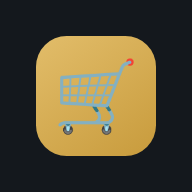
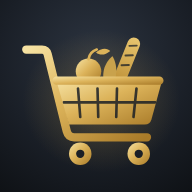
Courses devient Caddie : nouveau nom et nouvelle icône
Claude-Session: https://claude.ai/code/session_01McdgBFhzzAzWYgEfaMgSGS

diff --git a/courses/index.html b/courses/index.html
@@ -3,14 +3,14 @@
 <head>
 <meta charset="UTF-8">
 <meta name="viewport" content="width=device-width, initial-scale=1, viewport-fit=cover">
-<title>Courses</title>
+<title>Caddie</title>
 <meta name="claude:viewport-fit-sides" content="cover">
 <meta name="color-scheme" content="dark">
 <meta name="theme-color" content="#14181d">
 <meta name="mobile-web-app-capable" content="yes">
 <meta name="apple-mobile-web-app-capable" content="yes">
 <meta name="apple-mobile-web-app-status-bar-style" content="black-translucent">
-<meta name="apple-mobile-web-app-title" content="Courses">
+<meta name="apple-mobile-web-app-title" content="Caddie">
 <link rel="icon" href="icon-192.png">
 <link rel="apple-touch-icon" href="icon-192.png">
 <link rel="manifest" href="manifest.webmanifest">
@@ -106,7 +106,7 @@
 <div class="wrap">
   <header>
     <div>
-      <h1>Courses</h1>
+      <h1>Caddie</h1>
       <div class="count" id="count"></div>
     </div>
     <div class="seg" role="group" aria-label="Affichage">

diff --git a/courses/sw.js b/courses/sw.js
@@ -1,4 +1,4 @@
-const CACHE='courses-1';
+const CACHE='courses-2';
 const FILES=['./','index.html','manifest.webmanifest','icon-192.png','icon-512.png'];
 self.addEventListener('install',e=>{ e.waitUntil(caches.open(CACHE).then(c=>c.addAll(FILES))); self.skipWaiting(); });
 self.addEventListener('activate',e=>{ e.waitUntil(caches.keys().then(ks=>Promise.all(ks.filter(k=>k!==CACHE).map(k=>caches.delete(k))))); self.clients.claim(); });
